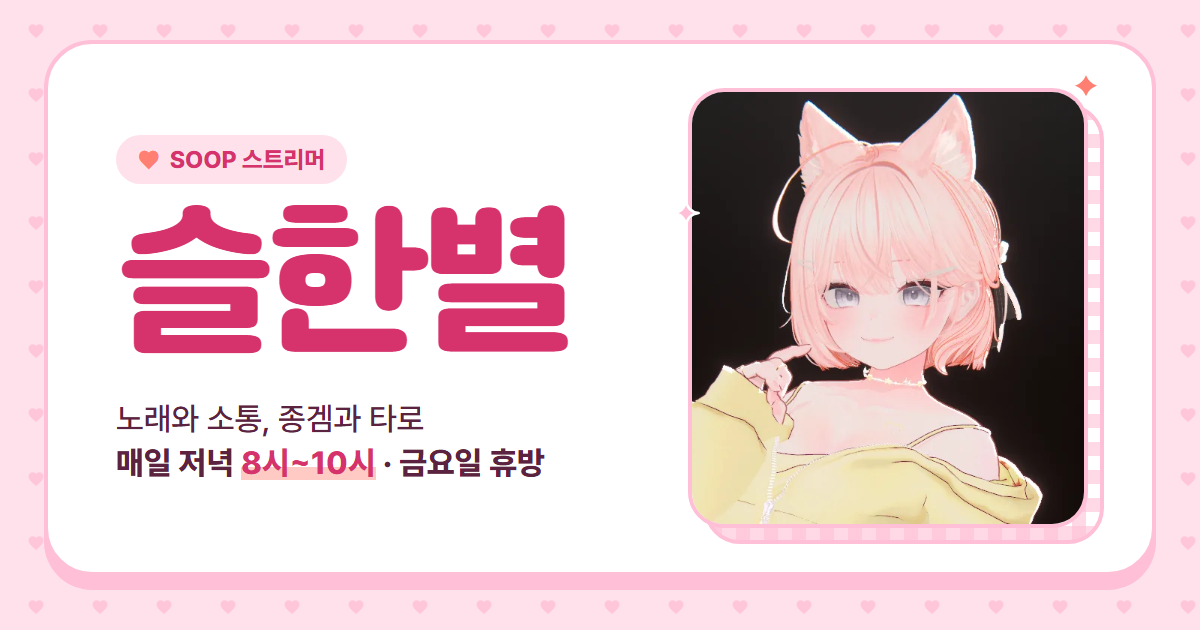
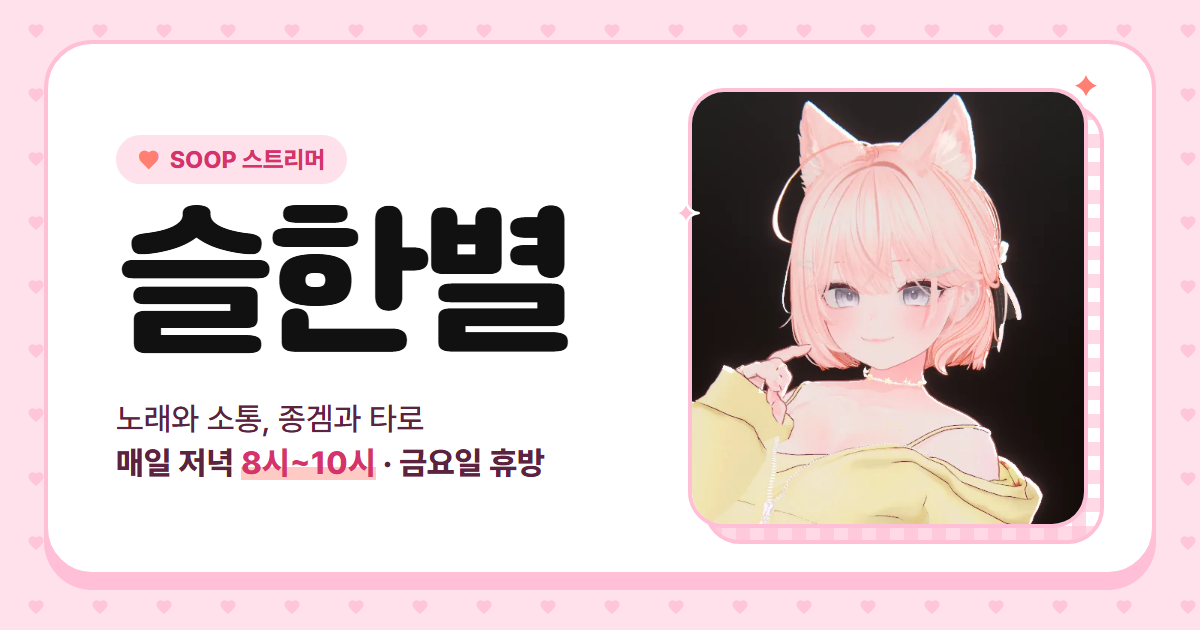
이름 '슬한별' 글자를 검은색으로 (첫 화면·헤더·공유 카드)

Changed region(s): [[0.0925, 0.3016, 0.4933, 0.573]]

diff --git a/index.html b/index.html
@@ -32,6 +32,7 @@
   --strawberry:#FFBFD6;  /* 딸기우유핑크: 테두리 · 그림자 · 하트 무늬 */
   --paper:#FFFFFF;       /* 카드 */
   --ink:#5C2340;         /* 글자 */
+  --name:#111111;        /* 이름 '슬한별' 글자 (첫 화면 큰 이름 · 헤더) */
   --muted:#96546F;       /* 보조 글자 */
   --coral-ink:#D9483B;   /* 코랄색 글자 (흰 바탕에서 읽히게 조금 진하게) */
   --line:#FFE1EC;
@@ -82,7 +83,7 @@ img{display:block;max-width:100%;height:auto}
 /* 헤더 */
 .top{position:sticky;top:0;z-index:40;background:rgba(255,255,255,.86);backdrop-filter:blur(12px);-webkit-backdrop-filter:blur(12px);border-bottom:3px solid var(--strawberry)}
 .top .wrap{display:flex;align-items:center;gap:32px;height:68px}
-.brand{display:flex;align-items:center;gap:10px;font-family:var(--display);font-size:24px;color:var(--rose)}
+.brand{display:flex;align-items:center;gap:10px;font-family:var(--display);font-size:24px;color:var(--name)}
 .brand img{width:38px;height:38px}
 .nav{display:flex;gap:4px;font-weight:700;font-size:15px}
 .nav a{padding:10px 14px;border-radius:999px;transition:background-color .15s}
@@ -96,7 +97,7 @@ img{display:block;max-width:100%;height:auto}
 .status.on{background:var(--rose);color:#fff}
 .live-title{margin-top:10px;font-size:15px;font-weight:600;color:var(--muted);max-width:32em}
 .status.on .dot{background:#fff;box-shadow:0 0 0 0 rgba(255,255,255,.6);animation:ping 1.8s infinite}
-.name{margin-top:28px;font-size:clamp(88px,14vw,180px);line-height:.9;letter-spacing:-.045em;color:var(--rose)}
+.name{margin-top:28px;font-size:clamp(88px,14vw,180px);line-height:.9;letter-spacing:-.045em;color:var(--name)}
 .name span{display:inline-block;animation:rise .7s var(--ease) both}
 .name span:nth-child(2){animation-delay:.07s}
 .name span:nth-child(3){animation-delay:.14s}
